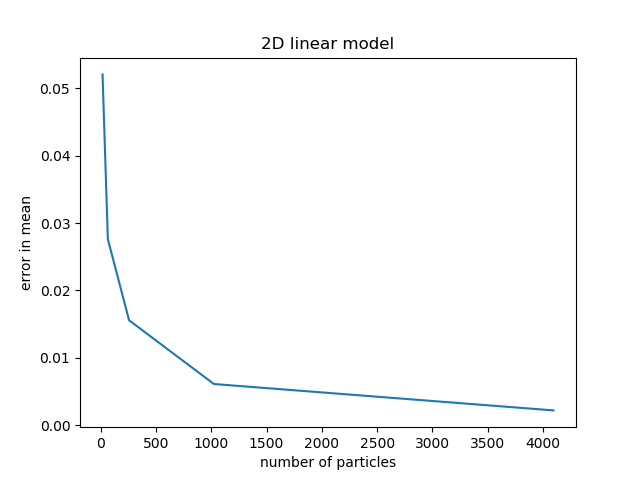
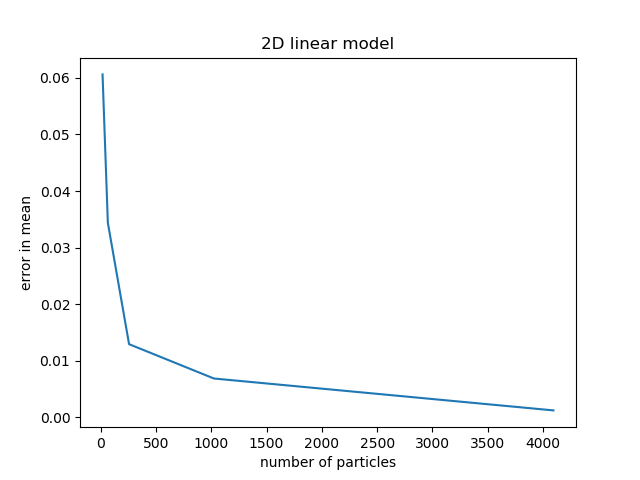
expr files done

diff --git a/python/upf_ex.py b/python/upf_ex.py
@@ -6,7 +6,7 @@ import matplotlib.pyplot as plt
 import plot
 
 @ut.timer
-def experiment(model, particle_counts, num_exprs, alpha, beta, kappa, resampling_threshold, titles = None, file_paths = None, exact_mean = None):
+def experiment(model, particle_counts, num_exprs, alpha, beta, kappa, resampling_threshold, titles = None, file_paths = None, final_exact_mean = None):
     # compute average error for each particle count
     rmse, err_in_mean = [], []
     for particle_count in particle_counts:
@@ -22,15 +22,15 @@ def experiment(model, particle_counts, num_exprs, alpha, beta, kappa, resampling
                 pf.update(observed_path , threshold_factor = resampling_threshold, method = 'mean')
                 pf.compute_error(hidden_path)
                 error += pf.rmse
-                if exact_mean is not None:
-                    err_m += np.linalg.norm(exact_mean(observed_path[1:]) - pf.computed_trajectory[-1])
+                if final_exact_mean is not None:
+                    err_m += np.linalg.norm(final_exact_mean(observed_path[1:]) - pf.computed_trajectory[-1])
                 expr += 1
             except:
                 pass
         rmse.append(error/num_exprs)
-        if exact_mean is not None:
+        if final_exact_mean is not None:
             err_in_mean.append(err_m/num_exprs)
-    # print a newline
+    # print a newline for clarity
     print()
     # plot average error vs particle_count
     x = np.linspace(min(particle_counts), max(particle_counts), 100)
@@ -44,7 +44,7 @@ def experiment(model, particle_counts, num_exprs, alpha, beta, kappa, resampling
         plt.savefig(file_paths[0])
 
     # plot error in mean vs particle_count
-    if exact_mean is not None:
+    if final_exact_mean is not None:
         plt.clf()
         #y = scipy.interpolate.make_interp_spline(particle_counts, err_in_mean)(x)
         plt.plot(particle_counts, err_in_mean)

diff --git a/python/expr1.py b/python/expr1.py
@@ -1,13 +1,13 @@
 import model1
 import upf_ex
 import warnings
-
 warnings.filterwarnings("ignore")
+
 # create model to feed the filters
-model = model1.model()
-exact_mean = lambda observed_path: model1.update(observed_path)[0][-1]
+model = model1.model(size = 10)
+final_exact_mean = lambda observed_path: model1.update(observed_path)[0][-1]
 # run experiments
 upf_ex.experiment(model = model, particle_counts = [16, 64, 256, 1024, 4096], num_exprs = 20, alpha = 1.0, beta = 0.0, kappa = 2.0,\
                 resampling_threshold = 0.1, titles = ['2D linear model']*2,\
                 file_paths = ['../images/gsupf_results/linear_rmse_vs_num_particles.png', '../images/gsupf_results/linear_err_in_mean_vs_num_particles.png'],\
-                exact_mean = exact_mean)
+                final_exact_mean = final_exact_mean)

diff --git a/python/expr3.py b/python/expr3.py
@@ -1,12 +1,12 @@
 import model3
 import upf_ex
 import warnings
-
 warnings.filterwarnings("ignore")
+
 # create model to feed the filters
-model, a, b = model3.model()
+model, a, b = model3.model(size = 10)
 #exact_mean = lambda observed_path: model1.update(observed_path)[0][-1]
 # run experiments
 upf_ex.experiment(model = model, particle_counts = [16, 64, 256, 1024, 4096], num_exprs = 20, alpha = 1.0, beta = 0.0, kappa = 2.0,\
                 resampling_threshold = 0.1, titles = ['Henon map (a, b)=({}, {})'.format(a, b)],\
-                file_paths = ['../images/gsupf_results/Henon(a, b)_rmse_vs_num_particles.png'.format(a, b)])
+                file_paths = ['../images/gsupf_results/Henon({}, {})_rmse_vs_num_particles.png'.format(a, b)])

diff --git a/python/expr2.py b/python/expr2.py
@@ -1,0 +1,11 @@
+import model2
+import upf_ex
+import warnings
+warnings.filterwarnings("ignore")
+
+# create model to feed the filters
+model = model2.model(size = 10)
+# run experiments
+upf_ex.experiment(model = model, particle_counts = [16, 64, 256, 1024, 4096], num_exprs = 20, alpha = 1.0, beta = 0.0, kappa = 2.0,\
+                resampling_threshold = 0.1, titles = ['2D non-linear model'],\
+                file_paths = ['../images/gsupf_results/model2_rmse_vs_num_particles.png'])
